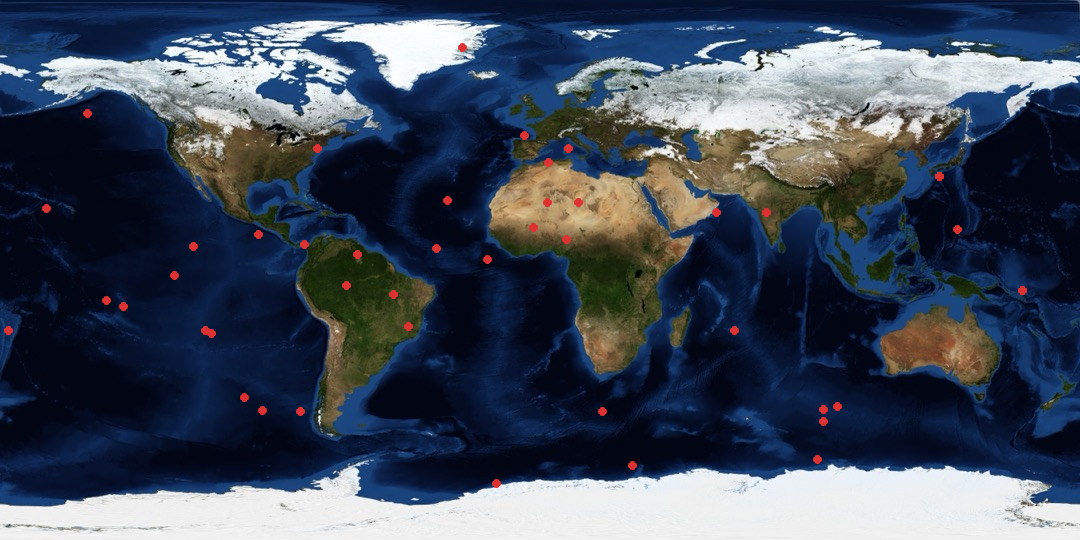
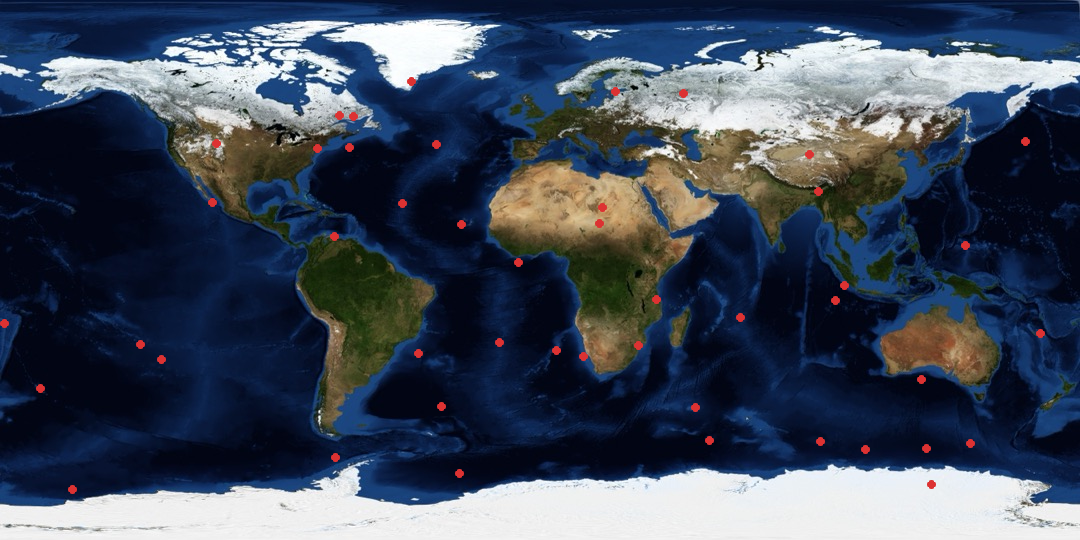
Add salt for all coordinates for security

diff --git a/src/lib.rs b/src/lib.rs
@@ -7,6 +7,41 @@ use rand::Rng;
 const EARTH_RADIUS: f64 = 6_371_000.0;
 const CHUNK_HEX_WIDTH: usize = 6; // 6 hex chars = 3 bytes per chunk
 const COORD_SCALE: f64 = 1e8;
+const CHUNK_MOD: u32 = 0x1000000; // 2^24, the max value for a 6-hex-digit chunk
+
+/// Derive a deterministic 64-bit seed from an origin coordinate.
+fn derive_seed(origin: &WGS84<f64>) -> u64 {
+    let lat_bits = (origin.latitude_degrees() * COORD_SCALE).round() as i64;
+    let lon_bits = (origin.longitude_degrees() * COORD_SCALE).round() as i64;
+    let mut h = (lat_bits as u64).wrapping_mul(0x9E3779B97F4A7C15);
+    h = h.wrapping_add(lon_bits as u64);
+    // splitmix64 mixing
+    h = h.wrapping_add(0x9E3779B97F4A7C15);
+    h = (h ^ (h >> 30)).wrapping_mul(0xBF58476D1CE4E5B9);
+    h = (h ^ (h >> 27)).wrapping_mul(0x94D049BB133111EB);
+    h ^ (h >> 31)
+}
+
+/// Splitmix64 PRNG step — returns next pseudo-random value.
+fn next_prng(state: &mut u64) -> u64 {
+    *state = state.wrapping_add(0x9E3779B97F4A7C15);
+    let mut z = *state;
+    z = (z ^ (z >> 30)).wrapping_mul(0xBF58476D1CE4E5B9);
+    z = (z ^ (z >> 27)).wrapping_mul(0x94D049BB133111EB);
+    z ^ (z >> 31)
+}
+
+/// Obfuscate a chunk value by adding a PRNG-derived offset (mod CHUNK_MOD).
+fn obfuscate_chunk(value: u32, prng_output: u64) -> u32 {
+    let offset = (prng_output % CHUNK_MOD as u64) as u32;
+    (value + offset) % CHUNK_MOD
+}
+
+/// Reverse obfuscation by subtracting the same offset (mod CHUNK_MOD).
+fn deobfuscate_chunk(obfuscated: u32, prng_output: u64) -> u32 {
+    let offset = (prng_output % CHUNK_MOD as u64) as u32;
+    (obfuscated + CHUNK_MOD - offset) % CHUNK_MOD
+}
 
 /// Simulate save/load quantization: round lat/lon to COORD_SCALE precision.
 fn quantize(coord: &WGS84<f64>) -> WGS84<f64> {
@@ -107,10 +142,13 @@ pub fn encode(origin: WGS84<f64>, text: &str) -> Vec<WGS84<f64>> {
     let mut current = random_coordinate();
     result.push(current);
 
+    let mut prng_state = derive_seed(&origin);
+
     for chunk in &chunks {
-        match i32::from_str_radix(chunk, 16) {
+        match u32::from_str_radix(chunk, 16) {
             Ok(value) => {
-                let next = compute_coordinate(&current, value);
+                let obfuscated = obfuscate_chunk(value, next_prng(&mut prng_state));
+                let next = compute_coordinate(&current, obfuscated as i32);
                 result.push(next);
                 current = next;
             }
@@ -127,16 +165,18 @@ pub fn encode(origin: WGS84<f64>, text: &str) -> Vec<WGS84<f64>> {
 /// Core decode logic. When `trim_last` is true, the last chunk is trimmed to
 /// its minimal even hex width (for variable-length text). When false, all
 /// chunks use full CHUNK_HEX_WIDTH (for padded/compressed data).
-fn decode_coords(encoded: &[WGS84<f64>], trim_last: bool) -> Result<Vec<u8>, String> {
+fn decode_coords(encoded: &[WGS84<f64>], origin: &WGS84<f64>, trim_last: bool) -> Result<Vec<u8>, String> {
     if encoded.len() < 3 {
         return Err("Not enough points to decode".to_string());
     }
 
     let data_points = &encoded[..encoded.len() - 1];
     let mut strings: Vec<String> = vec![];
+    let mut prng_state = derive_seed(origin);
 
     for i in 0..data_points.len() - 1 {
-        let val = data_points[i].distance(&data_points[i + 1]).round() as i32;
+        let raw_dist = data_points[i].distance(&data_points[i + 1]).round() as u32;
+        let val = deobfuscate_chunk(raw_dist, next_prng(&mut prng_state));
         let is_last = i == data_points.len() - 2;
 
         if is_last && trim_last {
@@ -163,8 +203,8 @@ fn decode_coords(encoded: &[WGS84<f64>], trim_last: bool) -> Result<Vec<u8>, Str
 /// Decode a chain of coordinates back to raw bytes (with last-chunk trimming).
 /// Last point is the origin (ignored for decoding).
 /// Data is in consecutive distances: dist(P0,P1), dist(P1,P2), ...
-pub fn decode(_origin: WGS84<f64>, encoded: Vec<WGS84<f64>>) -> Result<Vec<u8>, String> {
-    decode_coords(&encoded, true)
+pub fn decode(origin: WGS84<f64>, encoded: Vec<WGS84<f64>>) -> Result<Vec<u8>, String> {
+    decode_coords(&encoded, &origin, true)
 }
 
 /// Encode raw bytes with metadata (filename, size) embedded in the coordinate chain.
@@ -203,13 +243,13 @@ pub fn encode_with_metadata(origin: WGS84<f64>, data: &[u8], filename: &str) -> 
 /// Decode a coordinate chain that contains metadata, returning (file_bytes, original_filename).
 /// Data is decompressed with gzip after decoding.
 pub fn decode_with_metadata(
-    _origin: WGS84<f64>,
+    origin: WGS84<f64>,
     encoded: Vec<WGS84<f64>>,
 ) -> Result<(Vec<u8>, String), String> {
     use flate2::read::GzDecoder;
     use std::io::Read;
 
-    let compressed = decode_coords(&encoded, false)?;
+    let compressed = decode_coords(&encoded, &origin, false)?;
 
     // Decompress
     let mut decoder = GzDecoder::new(&compressed[..]);

diff --git a/tests/lib_tests.rs b/tests/lib_tests.rs
@@ -165,4 +165,16 @@ pub(crate) mod lib_tests {
         assert_eq!(data, decoded_bytes, "MP4 round-trip failed");
         assert_eq!("test_video.mp4", decoded_name);
     }
+
+    #[test]
+    fn test_wrong_origin_decode_fails() {
+        let origin = WGS84::from_degrees_and_meters(40.6976312, -74.1444842, 0.0);
+        let wrong_origin = WGS84::from_degrees_and_meters(52.5200, 13.4050, 0.0);
+        let data = b"Secret data that should not decode with wrong origin";
+
+        let encoded = encode_with_metadata(origin, data, "secret.txt");
+        let result = decode_with_metadata(wrong_origin, encoded);
+
+        assert!(result.is_err(), "Decoding with wrong origin should fail");
+    }
 }
